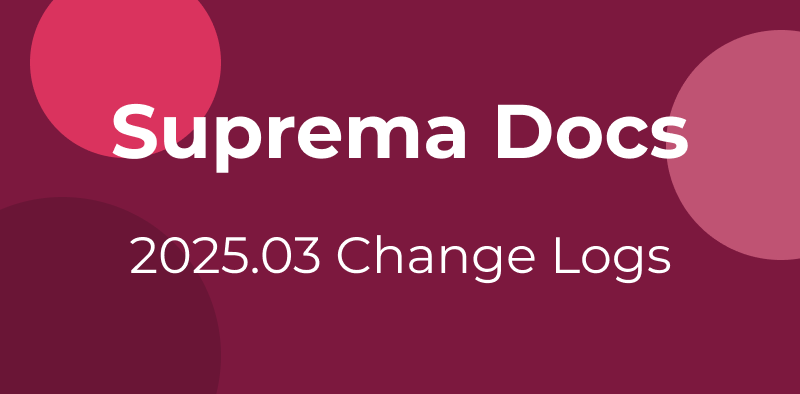
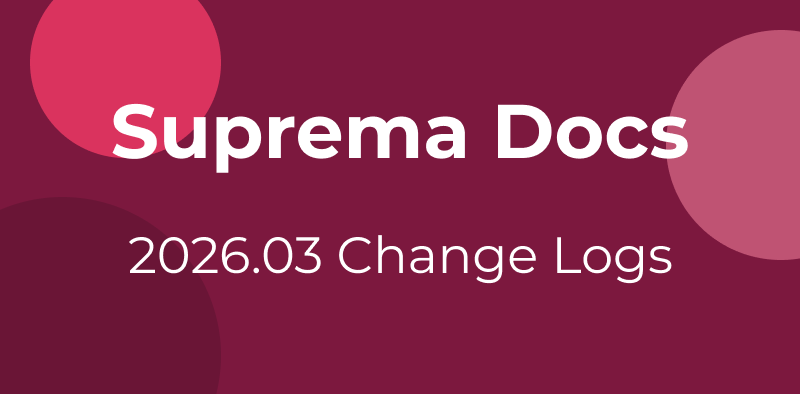
4월 Changelog 초안 업데이트

Changed region(s): [[0.1562, 0.5787, 0.8438, 0.731]]

diff --git a/changelog/2026-04-changelog.md b/changelog/2026-04-changelog.md
@@ -1,0 +1,55 @@
+---
+title: 2026년 4월
+description: 2026년 4월 Suprema Docs 주요 업데이트 내역을 제공합니다.
+slug: 2026-04-changelog
+---
+
+**Suprema Docs**는 2026년 4월에 플랫폼, 장치, 개발자 영역에서 주요 문서 업데이트를 진행했습니다. 이 문서에서는 월별 변경 사항을 통해 최신 기능과 개선 사항을 확인할 수 있습니다.
+
+![Suprema Docs 26.04 Changelogs](/img/changelogs-202604.png)
+
+<!-- truncate -->
+
+## Platform
+
+### BioStar X
+
+* [VMS 연동하기](../platform/biostar_x/settings-video-integration#install-vms-certification): 인증서 설치 경로 예시 추가
+
+* [서버 상세 설정하기](../platform/biostar_x/settings-server-server#custom-field): 커스텀 사용자 필드를 파일 업로드 옵션으로 지정할 때 파일 형식에 대한 제한 없음을 노트 문구 추가
+
+* [비디오 라이선스](../platform/biostar_x/licensing#features-add-ons) 관련 설명 업데이트
+
+### BioStar Air
+
+* BioStar Air [펌웨어 2.12 버전 릴리스 노트](../platform/biostar_air/release-notes/firmware) 업데이트
+
+* BioStar Air 릴리스 노트 문서 구조 개편
+
+  * [소프트웨어 릴리스 노트](../platform/biostar_air/release-notes/software)
+
+  * [펌웨어 릴리스 노트](../platform/biostar_air/release-notes/firmware)
+
+## Devices
+
+신규 릴리스 노트를 추가하고 기존 장치 문서를 업데이트했습니다.
+
+### 장치 문서 업데이트
+
+* [XPass Q2 설치 가이드](../device/xpass_q2) 신규 제작
+
+* [XPass D2](../device/xpass_d2/release-notes/183): 1.8.3 버전 릴리스 노트 추가
+
+* [BioStation 2a](../device/biostation_2a/release-notes/121): 1.2.1 버전 릴리스 노트 추가
+
+* [X-Station 2](../device/xstation_2/release-notes/141): 1.4.1 버전 릴리스 노트 추가
+
+* [BioLite N2](../device/biolite_n2/release-notes/171): 1.7.1 버전 릴리스 노트 추가
+
+* [BioStation 3](../device/biostation_3/release-notes/143): 1.4.3 버전 릴리스 노트 추가
+
+* [XPass 2](../device/xpass_2/release-notes/152): 1.5.2 버전 릴리스 노트 추가
+
+## Developer
+
+* API 문서 업데이트: [Export as CSV API](../api/bsxapi#tag/Events/operation/exportEventsExport)